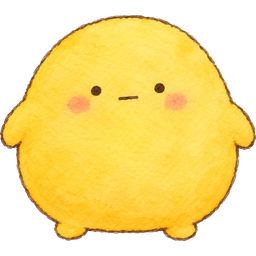
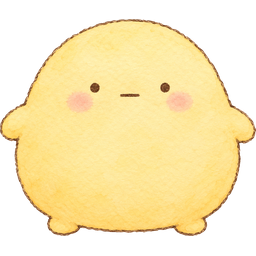
스티커 색을 연한 파스텔로 교체 (병아리, 노랑 동글이 수채화), 동글이 기분별 색 추가

diff --git a/sw.js b/sw.js
@@ -1,5 +1,5 @@
 /* 일기장 서비스워커: 한 번 열어 두면 인터넷 없이도 열려요. 일기 데이터는 건드리지 않고 화면·그림 파일만 보관해요. */
-const CACHE = "diary-v1";
+const CACHE = "diary-v2";
 const STICKERS = [
  "./stickers/blob/life-book.png",
  "./stickers/blob/life-coffee.png",
